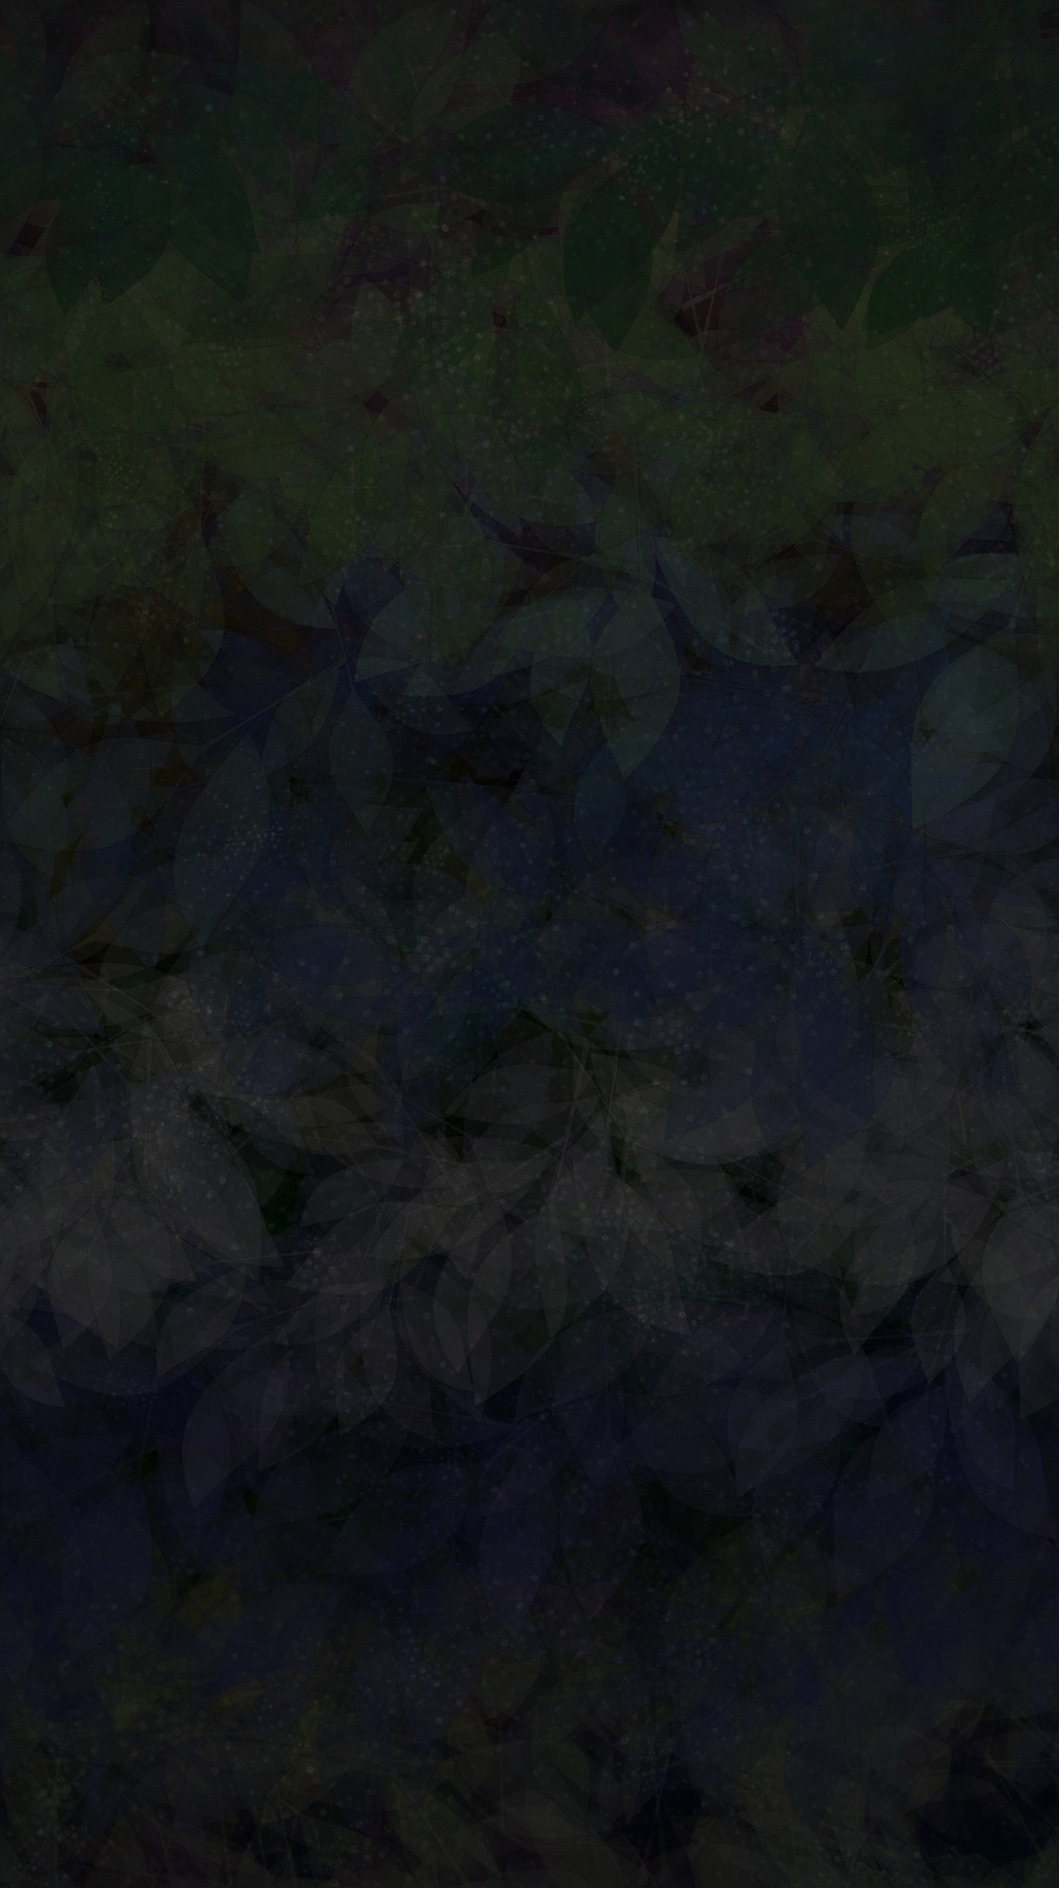
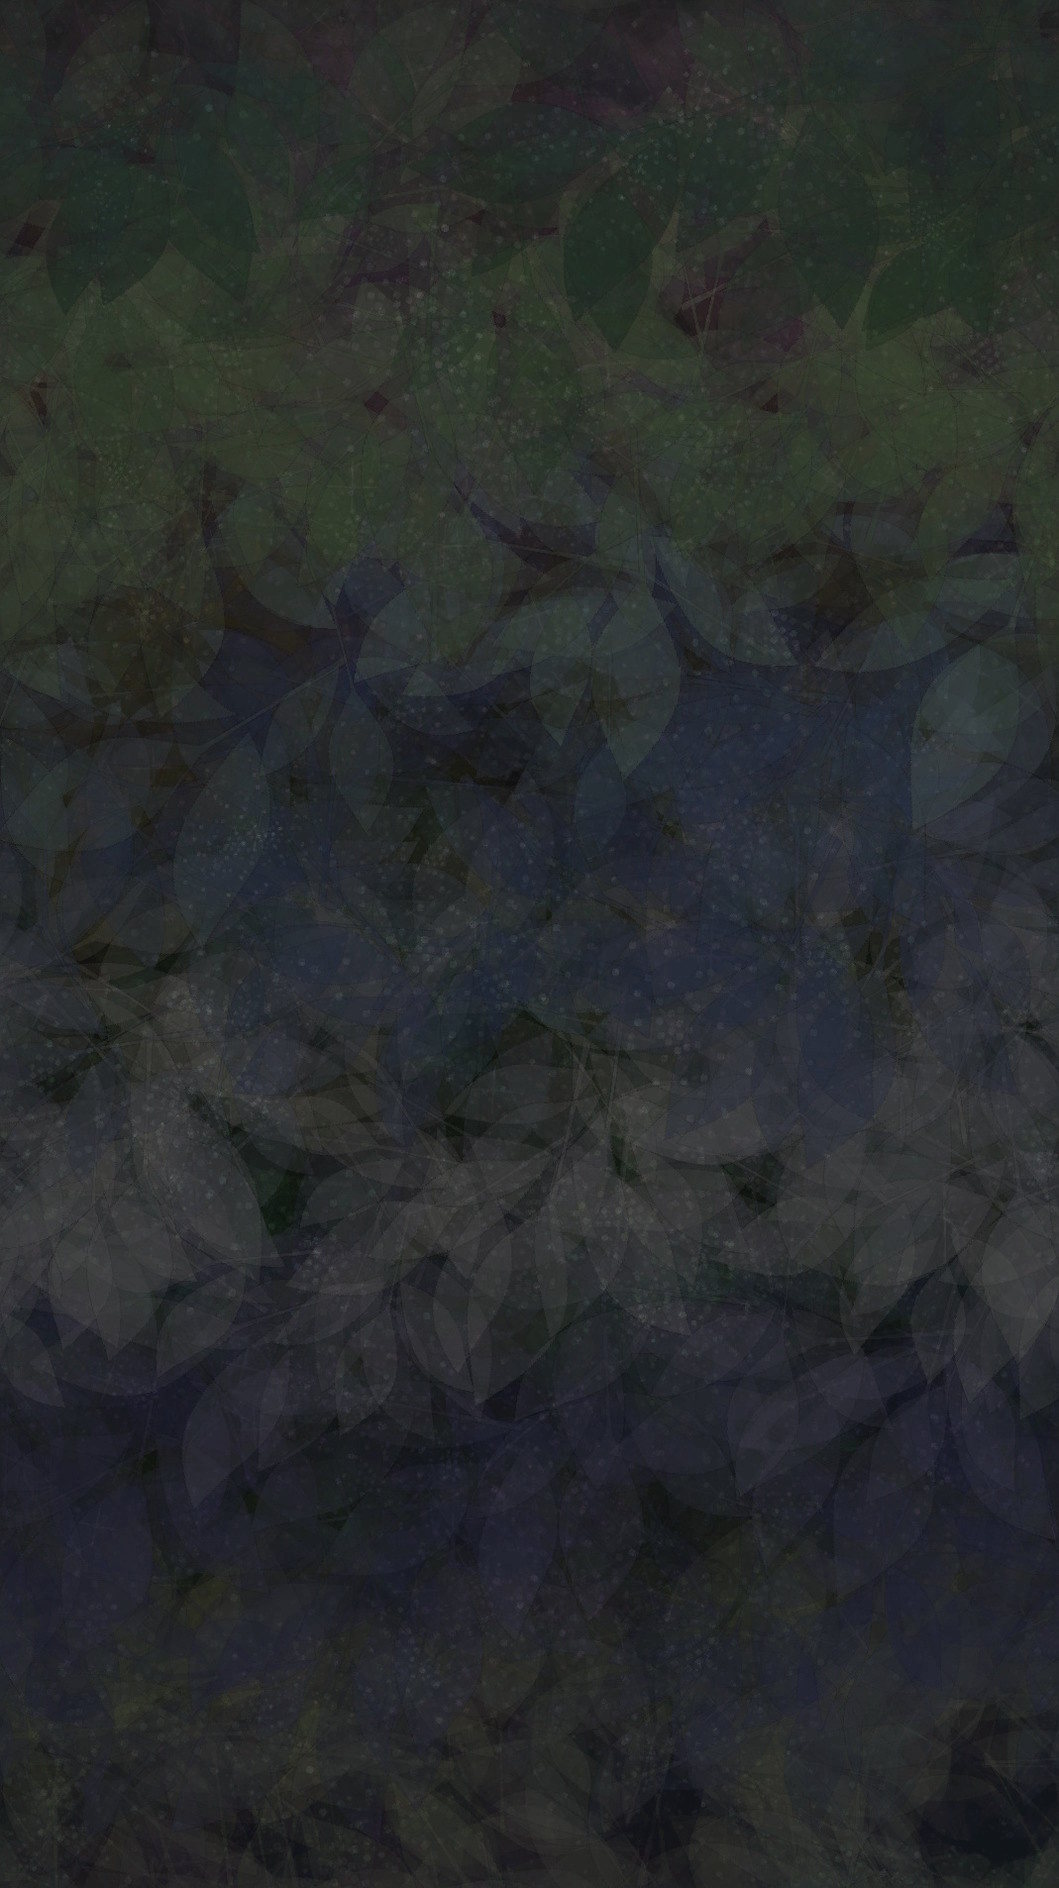
Updates to background

diff --git a/css/sonicfactory.css b/css/sonicfactory.css
@@ -87,7 +87,7 @@ td img {
 hr {
   border: none;
   height: 3px;
-  background-color: #111122; 
+  background-color: #444455; 
   border-radius: 1px; 
 }
 
